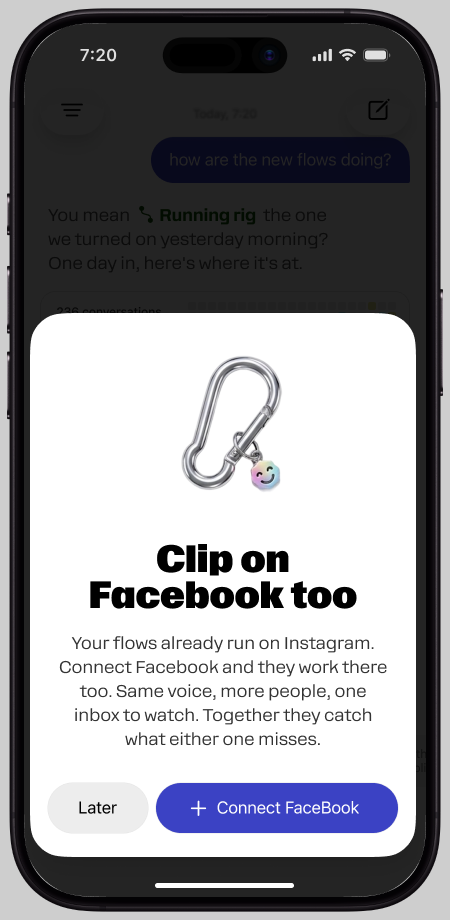
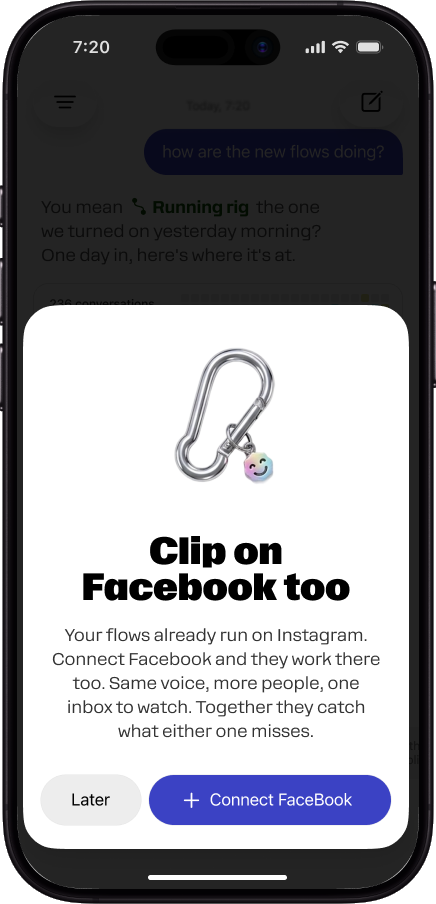
Add files via upload

diff --git a/manyfest.jsx b/manyfest.jsx
@@ -303,9 +303,8 @@ const __MNF_STYLE = `
     .mnf-shot { width: min(72vw, 240px); }
     .mnf-shot:hover img { transform: none; } /* no hover lift on touch */
   }
-  .mnf-shot img { width: 100%; height: auto; display: block; border-radius: 18px;
-    border: 1.5px solid rgba(13,13,13,0.18);
-    box-shadow: 0 18px 36px -26px rgba(13,13,13,0.5);
+  .mnf-shot img { width: 100%; height: auto; display: block;
+    filter: drop-shadow(0 18px 26px rgba(13,13,13,0.28)); /* hugs the phone silhouette */
     transition: transform .3s var(--ease-out); }
   .mnf-shot:hover img { transform: translateY(-5px); }
   .mnf-shot figcaption { font-family: var(--mono); font-size: 9.5px; letter-spacing: 0.1em;
@@ -1202,7 +1201,7 @@ function MnfstCase({ spec, onAsk }) {
           <div className="mnf-shots">
             {MNF_SHOTS.map(([src, cap, alt]) => (
               <figure className="mnf-shot" key={src}>
-                <img src={src} alt={alt} loading="lazy" width="450" height="920" />
+                <img src={src} alt={alt} loading="lazy" width="436" height="904" />
                 <figcaption>{cap}</figcaption>
               </figure>
             ))}
